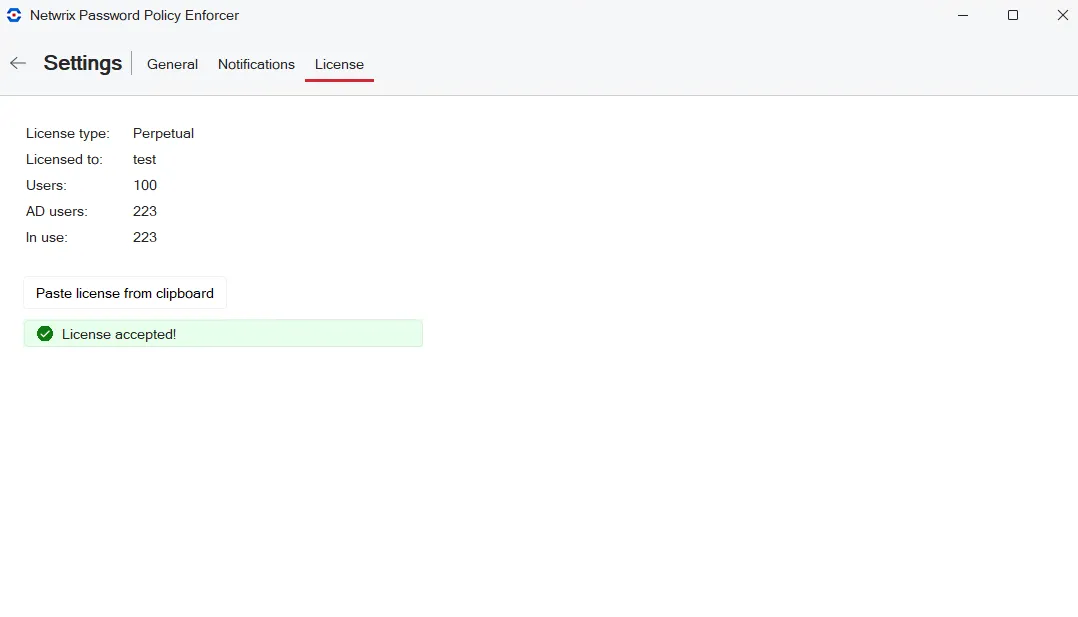
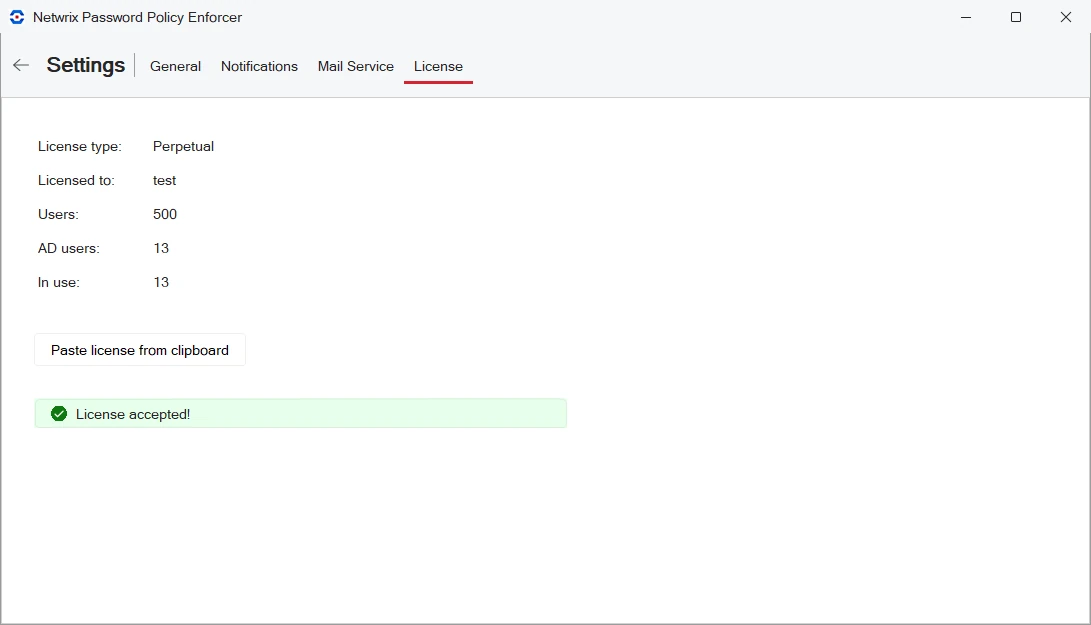
PPE 11.1 docs update

diff --git a/docs/passwordpolicyenforcer/11.1/admin/configconsole.md b/docs/passwordpolicyenforcer/11.1/admin/configconsole.md
@@ -86,7 +86,7 @@ Users with write permission to these objects can configure Password Policy Enfor
   Policy to distribute a local configuration to many computers. See the
   [Domain and Local Policies](/docs/passwordpolicyenforcer/11.1/installation/domain_and_local_policies.md) topic for additional information.
 
-![Connected To Local Configuration](/images/passwordpolicyenforcer/11.1/administration/connecttodomain.webp)
+![Connected To Local Configuration](/images/passwordpolicyenforcer/11.1/administration/connecttolocal.webp)
 
 ### Help
 
@@ -105,10 +105,11 @@ Links to documentation and support tools.
 
 ### Settings
 
-There are three tabs:
+There are four tabs:
 
 - General
 - Notifications
+- Mail Service
 - License
 
 #### General
@@ -174,6 +175,8 @@ Here are the default settings.
 - **Log event when password accepted by service** adds an entry to the Windows Application Event Log
   whenever a password is accepted. The logged event includes the username. Default is not checked.
 
+- **Use old icons in Live Policy Feedback** allows switching between displaying old-style and new-style icons in the Password Policy Enforcer Client on the change password screen.
+
 #### Notifications
 
 Open the **Settings** > **Notifications** tab to set up notifications. Notifications are only
@@ -181,28 +184,16 @@ available when **domain** is selected with the Connected To configuration settin
 
 If you make changes, click **Save** to keep your changes or **Discard** to cancel.
 
-Here are the default settings.
-
 ![Notifications Settings](/images/passwordpolicyenforcer/11.1/administration/settingsnotifications.webp)
 
 - **Send email reminders**: check this option to send reminders. Default is not checked.
-
-    - **SMTP Server**: enter IP address.
-    - **Port**: enter port number.
-    - **Username**: enter your username.
-    - **Password**: enter your password.
-    - **Use TLS**: check this option to enable TLS email encryption.
-
-- **Save email to a pickup folder**: check this option to have the Mailer save emails to a folder
-  for later delivery by a mail server. The mail server must monitor this folder for new email.
-
+- **Save email to a pickup folder**: check this option to have the Mailer save emails to a folder for later delivery by a mail server. The mail server must monitor this folder for new email.
     - **Path**: Click **Browse** and select the path to the pickup folder.
 
 :::note
 Saving email to a pickup folder is the fastest and most reliable delivery method. Use this
 option if your mail server supports pickup folders.
 :::
-
 
 The Password Policy Enforcer Mailer sends emails at 2:00 AM every day (local time on your server).
 Check the Windows Application Event Log to monitor its progress. You can also run the Password
@@ -214,6 +205,74 @@ You can change the time the mailer runs. Set the **PPE Mailer** service startup
 desired time.
 :::
 
+##### Configuring Email Settings
+
+There are three possible ways to configure email settings:
+ - **SMTP Server**
+ - **Google OAuth2**
+ - **O365 OAuth2**
+
+###### SMTP Server
+
+![Notifications Settings](/images/passwordpolicyenforcer/11.1/administration/settingsnotifications2.webp)
+
+- **SMTP Server**: enter IP address.
+- **Port**: enter port number.
+- **Username**: enter your username.
+- **Password**: enter your password.
+- **Use TLS**: check this option to enable TLS email encryption.
+
+###### Google OAuth2
+
+![Notifications Settings](/images/passwordpolicyenforcer/11.1/administration/settingsnotifications3.webp)
+
+- **User Account**: authenticated Google Workspace account.
+- **Client ID**: value configured in the Google Workspace Admin Console.
+- **Client Secret**: value configured in the Google Workspace Admin Console.
+- **Clear Credentials**: removes stored values and tokens.
+- **Update Credentials**: initiates token generation in a browser window.
+
+:::note
+The Google OAuth2 timeout can be configured in **PPEConfiguration.json**.
+By default, it is set to **1 minute**:
+```
+"Configuration": { 
+  "GoogleOAuthTimeout": 60
+}
+```
+:::
+
+###### O365 OAuth2
+
+![Notifications Settings](/images/passwordpolicyenforcer/11.1/administration/settingsnotifications4.webp)
+
+- **User Account**: Office 365 account.
+- **Client ID**: value configured in the Office 365 Admin Console.
+- **Client Secret**: value configured in the Office 365 Admin Console.
+- **Tenant ID**: Office 365 tenant identifier.
+- **Clear Credentials**: removes values.
+
+#### Mail Service
+
+Open the **Settings** > **Mail Service** tab to set up mail service for notifications. 
+
+If you make changes, click **Save** to keep your changes or **Discard** to cancel.
+
+![Mail Server Tab](/images/passwordpolicyenforcer/11.1/administration/settingsmailserver.webp)
+
+- **Service**: specify the address of the machine where the mail service is installed.
+- **Port**: specify the port number.
+
+:::note
+If you need to use a port other than 12345, open the **PPEMailService.json** file on the machine where 
+the mail service is installed, update the port value, and restart the mail service to apply the changes.
+```
+"MailService": {
+  "HostName": "localhost",
+  "Port": 6000
+}
+```
+:::
 
 #### License
 

diff --git a/docs/passwordpolicyenforcer/11.1/admin/compromisedpasswordcheck.md b/docs/passwordpolicyenforcer/11.1/admin/compromisedpasswordcheck.md
@@ -6,9 +6,9 @@ sidebar_position: 30
 
 # Compromised Password Check
 
-The Compromised Password Checker finds compromised passwords. Users can be notified via email and
-advised or forced to change their password. The check can be scheduled to check existing passwords
-against a compromised hash list at any time.
+The Compromised Password Checker identifies weak or unsafe passwords, including compromised, reused, 
+or empty ones. Users can be notified via email and advised or forced to change their password. 
+The check can be scheduled to run at any time to verify existing passwords against security rules.
 
 :::note
 Create the **Compromised Passwords Base** file prior to enabling the Compromised Password
@@ -39,6 +39,9 @@ Click the **Compromised Password Check** toggle to enable/disable the feature.
 - **Log events in Windows Application Event Viewer** select this option if you want to log events.
 - **Force users to change password** select this option to force users to change compromised
   passwords.
+- **Report password reuse by another account** select this option to generate password reuse report.
+- **Force users to change password** select this option to force users to change reused
+  passwords.
 - **Recipient of the full report on the found compromised passwords** specify the email address of
   the administrator who should receive the full report.
 - **From** specify the email sender.
@@ -54,12 +57,26 @@ Click **Save** to save your settings before running the check or setting up a sc
 Click **Run now** to run the check. Depending on your network, the check can take quite a while to
 complete. You can schedule it for off hours instead of running it now.
 
-Here is an example of the compromised passwords list:
+Here is an example of the compromised passwords report:
 
+---
+**List of compromised passwords**
 |User  |  Account | Sid | Email | Description |
 | --- | --- | --- | --- | --- |
 | admin    | Administrator | S-1-5-21-1006207104-1546379664-2458629591-500  |      | Sending emails is not possible due to the lack of an email address in the account. |
 | user2   | user2  | S-1-5-21-1006207104-1546379664-2458629591-1118 | user2@company.com | Email has been sent  |
+
+
+**List of reused passwords**
+|User  |  Account | Sid | Email | Description |
+| --- | --- | --- | --- | --- |
+| admin    | Administrator | S-1-5-21-1006207104-1546379664-2458629591-500  |      | Sending emails is not possible due to the lack of an email address in the account. |
+| user2   | user2  | S-1-5-21-1006207104-1546379664-2458629591-1118 | user2@company.com | Email has been sent  |
+
+**Users with empty password:**
+Guest (S-1-5-21-1006207104-1546379664-2458629591-501)
+
+---
 
 #### Schedule the Compromised Password Check
 

diff --git a/docs/passwordpolicyenforcer/11.1/admin/manage-policies/rules/dictionary_rule.md b/docs/passwordpolicyenforcer/11.1/admin/manage-policies/rules/dictionary_rule.md
@@ -18,8 +18,7 @@ for long passwords.
 
 Select the **Dictionary** check box to enable the Dictionary rule.
 
-Browse to a dictionary file. A sample file **Dict.txt** is installed in the **\Program
-Files\Password Policy Enforcer** folder. This file is sorted and ready to use. It contains
+Browse to a dictionary file. A sample file **Dict.txt** is installed in the **\Program Files\Netwrix\Password Policy Enforcer\\** folder. This file is sorted and ready to use. It contains
 approximately 257,000 words, names, and acronyms.
 
 Select the **Detect inclusion of non-alpha characters** check box if Password Policy Enforcer should
@@ -114,7 +113,7 @@ local disk. Using a shared dictionary degrades performance, and could jeopardize
 
 :::note
 The `\Program Files (x86)\` folder does not exist on 32-bit Windows, so move the
-dictionary into the `\Program Files\Password Policy Enforcer\` folder if you have 32-bit and 64-bit
+dictionary into the `\Program Files\Netwrix\Password Policy Enforcer\` folder if you have 32-bit and 64-bit
 computers sharing a common Password Policy Enforcer configuration.
 :::
 

diff --git a/docs/passwordpolicyenforcer/11.1/admin/manage-policies/manage_policies.md b/docs/passwordpolicyenforcer/11.1/admin/manage-policies/manage_policies.md
@@ -28,13 +28,12 @@ Policy Guide have been added.
 
 The policy management links are all on the Password Policies tile:
 
-- Add a Policy.
-- Set Up a Policy (click on existing policy name).
-- Test Policy.
-- Set Priorities.
-- Export.
-- Context menu (3 stacked dots) beside each defined policy Make Copy, Make Default/Remove Default,
-  Rename and Delete .
+- [Add a Policy.](#add-a-policy)
+- [Set Up a Policy](#set-up-a-policy) (click on existing policy name).
+- [Test Policy.](#test-policy)
+- [Set Priorities.](#set-priorities)
+- [Export.](#export)
+- Context menu (3 stacked dots) beside each defined policy [Make Copy](#make-copy), [Make Default/Remove Default](#make-defaultremove-default), [Rename](#rename) and [Delete](#delete).
 
 ## Add a Policy
 

diff --git a/docs/passwordpolicyenforcer/11.1/admin/command_line_interface.md b/docs/passwordpolicyenforcer/11.1/admin/command_line_interface.md
@@ -35,9 +35,8 @@ If a reboot was not done, add **/forcerestart** at the end
 ## Mailer
 
 You can run the Password Policy Enforcer Mailer from the command line to deliver email immediately,
-or to troubleshoot problems. PPEMail.exe is copied into the \Program Files (x86)
-
-\Password Policy Enforcer\ folder when the Password Policy Enforcer Mailer is installed.
+or to troubleshoot problems. PPEMail.exe is copied into the \Program Files\Netwrix\Password Policy 
+Enforcer\ folder when the Password Policy Enforcer Mailer is installed.
 
 PPEMail.exe starts a simulation when run without any parameters. It finds users whose password will
 expire soon, but no email is sent or saved to the pickup folder. Use the simulation mode to find

diff --git a/docs/passwordpolicyenforcer/11.1/admin/cmdlets/cmdlets.md b/docs/passwordpolicyenforcer/11.1/admin/cmdlets/cmdlets.md
@@ -9,6 +9,9 @@ sidebar_position: 60
 The PPE Cmdlets are available to manage Password Policy Enforcer from a Windows PowerShell. The
 cmdlets are not case-sensitive.
 
+Starting with version **11.1**, the PowerShell cmdlets are built on .NET 8.0 and require PowerShell version 7.5 or newer to function.
+**Installation link**: [https://learn.microsoft.com/en-us/powershell/scripting/install/installing-powershell-on-windows?view=powershell-7.5](https://learn.microsoft.com/en-us/powershell/scripting/install/installing-powershell-on-windows?view=powershell-7.5)
+
 To establish the connection:
 
 **Step 1 –** Open a Windows PowerShell. Some cmdlets require administrative permissions. You can use

diff --git a/docs/passwordpolicyenforcer/11.1/installation/installationserver.md b/docs/passwordpolicyenforcer/11.1/installation/installationserver.md
@@ -62,8 +62,7 @@ Agreement**.
   selected by default.
 - Configuration Console – manages policy configuration. Install where ever needed. Selected by
   default.
-- Mailer Service – sends email reminders. Should be installed on a Domain Controller. It is not
-  selected by default.
+- Mailer Service – sends email reminders. It is not selected by default.
 
 **Step 8 –** The default location is shown. Click **Browse** and select a new location if needed.
 

diff --git a/docs/passwordpolicyenforcer/11.1/index.md b/docs/passwordpolicyenforcer/11.1/index.md
@@ -76,7 +76,7 @@ Here are the requirements for both the full and evaluation Password Policy Enfor
 - 10
 - 11
 
-- .NET 8.0.15 or higher
+- .NET Desktop Runtime 8.0.15 or higher
 
 ## Password Policy Enforcer Web
 
